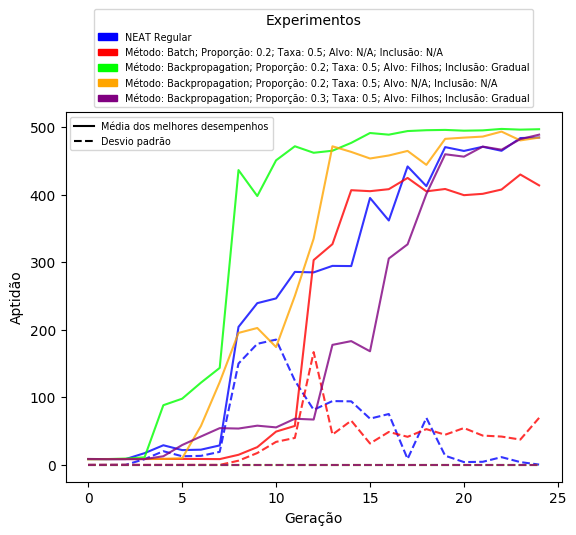
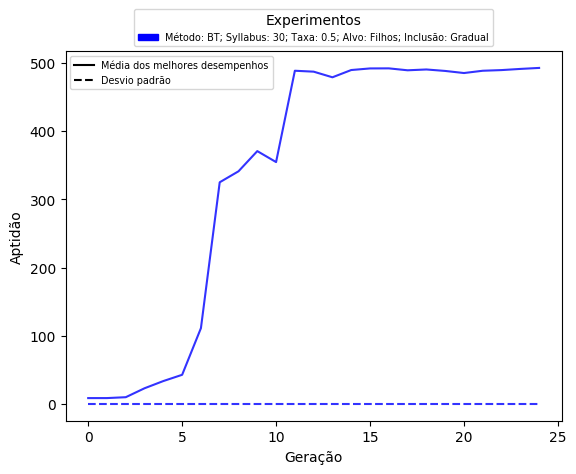
learning amount

diff --git a/util.py b/util.py
@@ -28,7 +28,7 @@ class Exp():
 		self.gens = 25
 		self.reps = 1
 		self.lf = 'N/A'
-		self.lp = 0.0
+		self.la = 30
 		self.lr = 0.0
 		self.lt = 'N/A'
 		self.li = 'N/A'
@@ -43,7 +43,7 @@ class Exp():
 		self.gens = int(config.get('exp', 'gens'))
 		self.reps = int(config.get('exp', 'reps'))
 		self.lf = config.get('exp', 'lf')
-		self.lp = float(config.get('exp', 'lp'))
+		self.la = int(config.get('exp', 'la'))
 		self.lr = float(config.get('exp', 'lr'))
 		self.lt = config.get('exp', 'lt')
 		self.li = config.get('exp', 'li')
@@ -103,7 +103,7 @@ class DataManager():
 			if key[0] == 'N/A':
 				patches.append(mpatches.Patch(color=color, label='NEAT Regular'))
 			else:
-				label = u"Método: " + key[0] + u"; Proporção: " + str(key[1]) + '; Taxa: ' + str(key[2]) + '; Alvo: ' + key[3] + u"; Inclusão: " + key[4]
+				label = u"Método: " + key[0] + '; Syllabus: ' + str(key[1]) + '; Taxa: ' + str(key[2]) + '; Alvo: ' + key[3] + u"; Inclusão: " + key[4]
 				patches.append(mpatches.Patch(color=color, label=label))
 
 		
@@ -172,7 +172,8 @@ if __name__ == "__main__":
 					selected_keys.add(keys[i-1])
 				action_selection_menu(db, selected_keys)
 			elif i == len(keys)+1:
-				db.plot(selected_keys)
+				if len(selected_keys) > 0:
+					db.plot(selected_keys)
 				action_selection_menu(db, selected_keys)
 			elif i == len(keys)+2:
 				s = ''
@@ -310,20 +311,21 @@ def batch(g, lessons, learning_rate):
 
 ############################### EVALUATIONS ###################################
 		
-def evaluate_net(task, net, env, timeout, knowledge):
+def evaluate_net(task, net, env, timeout, knowledge, attain_knowledge):
 	if task == 'CartPole-v0' or task == 'CartPole-v1':
-		return go_CartPole(net, env, timeout, knowledge)
+		return go_CartPole(net, env, timeout, knowledge, attain_knowledge)
 	if task == 'MountainCar-v0':
-		return go_MountainCar(net, env, timeout, knowledge)
+		return go_MountainCar(net, env, timeout, knowledge, attain_knowledge)
 
 #-----------------------------------------------------------------------------#
 
-def go_CartPole(net, env, timeout, knowledge):
+def go_CartPole(net, env, timeout, knowledge, attain_knowledge):
 	inputs = env.reset()
 	total_reward = 0.0
 	for t in range(timeout):
 		outputs = net.activate(inputs)
-		knowledge.append( (inputs,outputs) )
+		if attain_knowledge:
+			knowledge.append( (inputs,outputs) )
 		action = np.argmax(outputs)
 		inputs, reward, done, _ = env.step(action)
 		if done:
@@ -332,12 +334,13 @@ def go_CartPole(net, env, timeout, knowledge):
 		total_reward += reward/(1.0 + abs(inputs[0]))
 	return total_reward
 
-def go_MountainCar(net, env, timeout, knowledge):
+def go_MountainCar(net, env, timeout, knowledge, attain_knowledge):
 	inputs = env.reset()
 	max_x = None
 	for t in range(timeout):
 		outputs = net.activate(inputs)
-		knowledge.append( (inputs,outputs) )
+		if attain_knowledge:
+			knowledge.append( (inputs,outputs) )
 		action = np.argmax(outputs)
 		inputs, reward, done, _ = env.step(action)
 		if max_x is None or max_x < inputs[0]:
@@ -366,7 +369,7 @@ class CustomReproduction(DefaultReproduction):
 			self.ancestors[key] = tuple()
 		return new_genomes
 
-	def reproduce(self, config, species, pop_size, generation, learning_function, learning_proportion, learning_rate, syllabus):
+	def reproduce(self, config, species, pop_size, generation, learning_function, learning_amount, learning_rate, syllabus):
 		all_fitnesses = []
 		for sid, s in iteritems(species.species):
 			all_fitnesses.extend(m.fitness for m in itervalues(s.members))
@@ -421,13 +424,13 @@ class CustomReproduction(DefaultReproduction):
 			repro_cutoff = max(repro_cutoff, 2)
 			old_members = old_members[:repro_cutoff]
 			
-			has_learning = learning_proportion > 0.0 and learning_rate > 0.0 and not learning_function is None
+			has_learning = learning_amount > 0 and learning_rate > 0.0 and not learning_function is None
 			(writer, lessons) = syllabus
 			'''
 			if has_learning:
 				for (_, g) in old_members:
 					if g != writer:
-						lessons_to_learn = random.sample(lessons, int(math.ceil(learning_proportion*len(lessons))))
+						lessons_to_learn = random.sample(lessons, min(learning_amount, len(lessons)))
 						learning_function(g, lessons_to_learn, learning_rate)
 			'''
 			while spawn > 0:
@@ -441,7 +444,7 @@ class CustomReproduction(DefaultReproduction):
 				child.net = FeedForwardNetwork.create(child, self.config)
 				
 				if has_learning:
-					lessons_to_learn = random.sample(lessons, int(math.ceil(learning_proportion*len(lessons))))
+					lessons_to_learn = random.sample(lessons, min(learning_amount, len(lessons)))
 					learning_function(child, lessons_to_learn, learning_rate)
 				
 				new_population[gid] = child
@@ -497,11 +500,11 @@ class CustomPopulation(Population):
 
 		self.best_genome = None
 	
-	def run(self, fitness_function, n, best_fitnesses, learning_function, learning_proportion, learning_rate):
+	def run(self, fitness_function, n, best_fitnesses, learning_function, learning_amount, learning_rate):
 		syllabus = (None,[])
-		if learning_function == 'Backpropagation':
+		if learning_function == 'BP':
 			learning_function = backpropagation
-		elif learning_function == 'Batch':
+		elif learning_function == 'BT':
 			learning_function = batch
 		elif learning_function == 'N/A':
 			learning_function = None
@@ -522,7 +525,7 @@ class CustomPopulation(Population):
 			if fv >= self.config.fitness_threshold:
 				self.reporters.found_solution(self.config, self.generation, best)
 				break
-			self.population = self.reproduction.reproduce(self.config, self.species, self.config.pop_size, self.generation, learning_function, learning_proportion, learning_rate, syllabus)
+			self.population = self.reproduction.reproduce(self.config, self.species, self.config.pop_size, self.generation, learning_function, learning_amount, learning_rate, syllabus)
 			if not self.species.species:
 				self.reporters.complete_extinction()
 				if self.config.reset_on_extinction:

diff --git a/neat_gym.py b/neat_gym.py
@@ -21,11 +21,8 @@ def worker_evaluate_genome(g, config):
 	fitnesses = []
 	knowledge = []
 	for run in range(exp.epis):
-		if run == 0:
-			#knowledge obtained from the first run, only
-			fitnesses.append(evaluate_net(exp.task, g.net, env, exp.timeout, knowledge))
-		else:
-			fitnesses.append(evaluate_net(exp.task, g.net, env, exp.timeout, []))
+		#attain knowledge on the first run, only
+		fitnesses.append(evaluate_net(exp.task, g.net, env, exp.timeout, knowledge, run == 0))
 	fitness = np.array(fitnesses).mean()
 	return fitness, knowledge
 
@@ -35,12 +32,12 @@ def train_network(env, pe):
 		
 	#start evolution
 	best_fitnesses = []
-	pop.run(pe.evaluate, exp.gens, best_fitnesses, exp.lf, exp.lp, exp.lr)
+	pop.run(pe.evaluate, exp.gens, best_fitnesses, exp.lf, exp.la, exp.lr)
 #	TODO	
-#	pop.run(pe.evaluate, exp.gens, best_fitnesses, exp.lf, exp.lp, exp.lr, exp.lt, exp.li)
+#	pop.run(pe.evaluate, exp.gens, best_fitnesses, exp.lf, exp.la, exp.lr, exp.lt, exp.li)
 	
 	#commit statistics
-	DataManager(exp.task).commit(exp.lf, exp.lp, exp.lr, exp.lt, exp.li, best_fitnesses)
+	DataManager(exp.task).commit(exp.lf, exp.la, exp.lr, exp.lt, exp.li, best_fitnesses)
 		
 ################################################################################################
 
